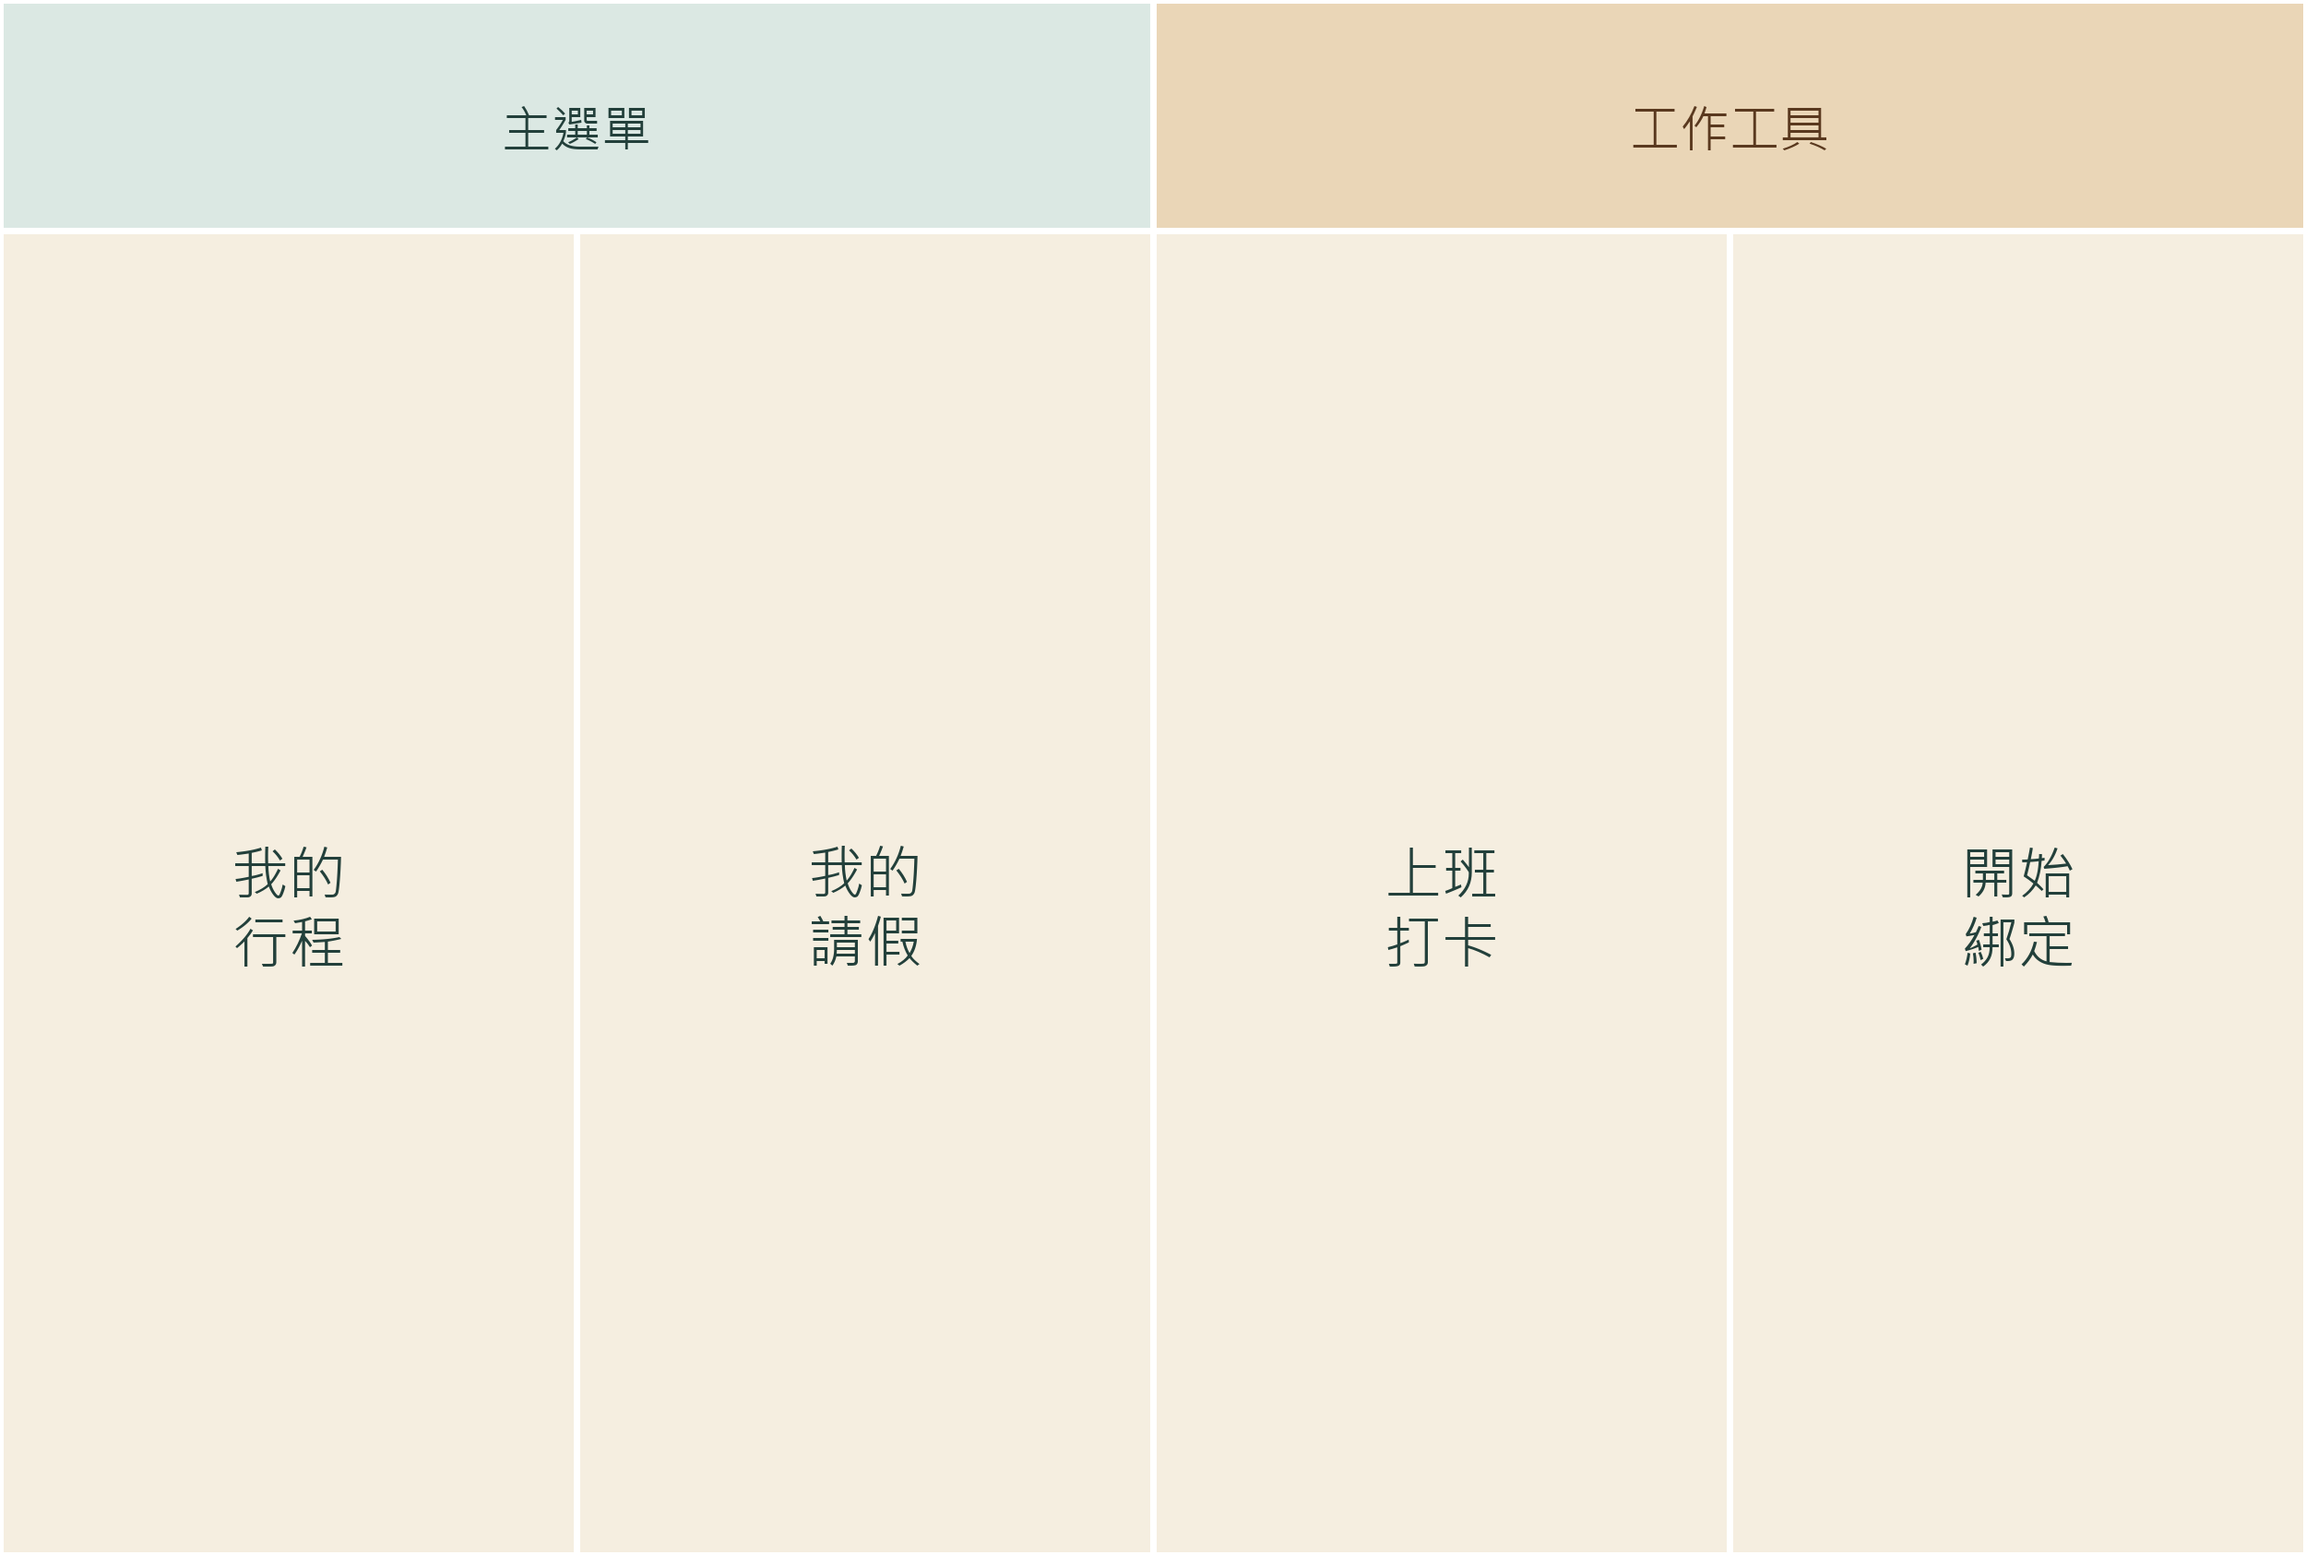
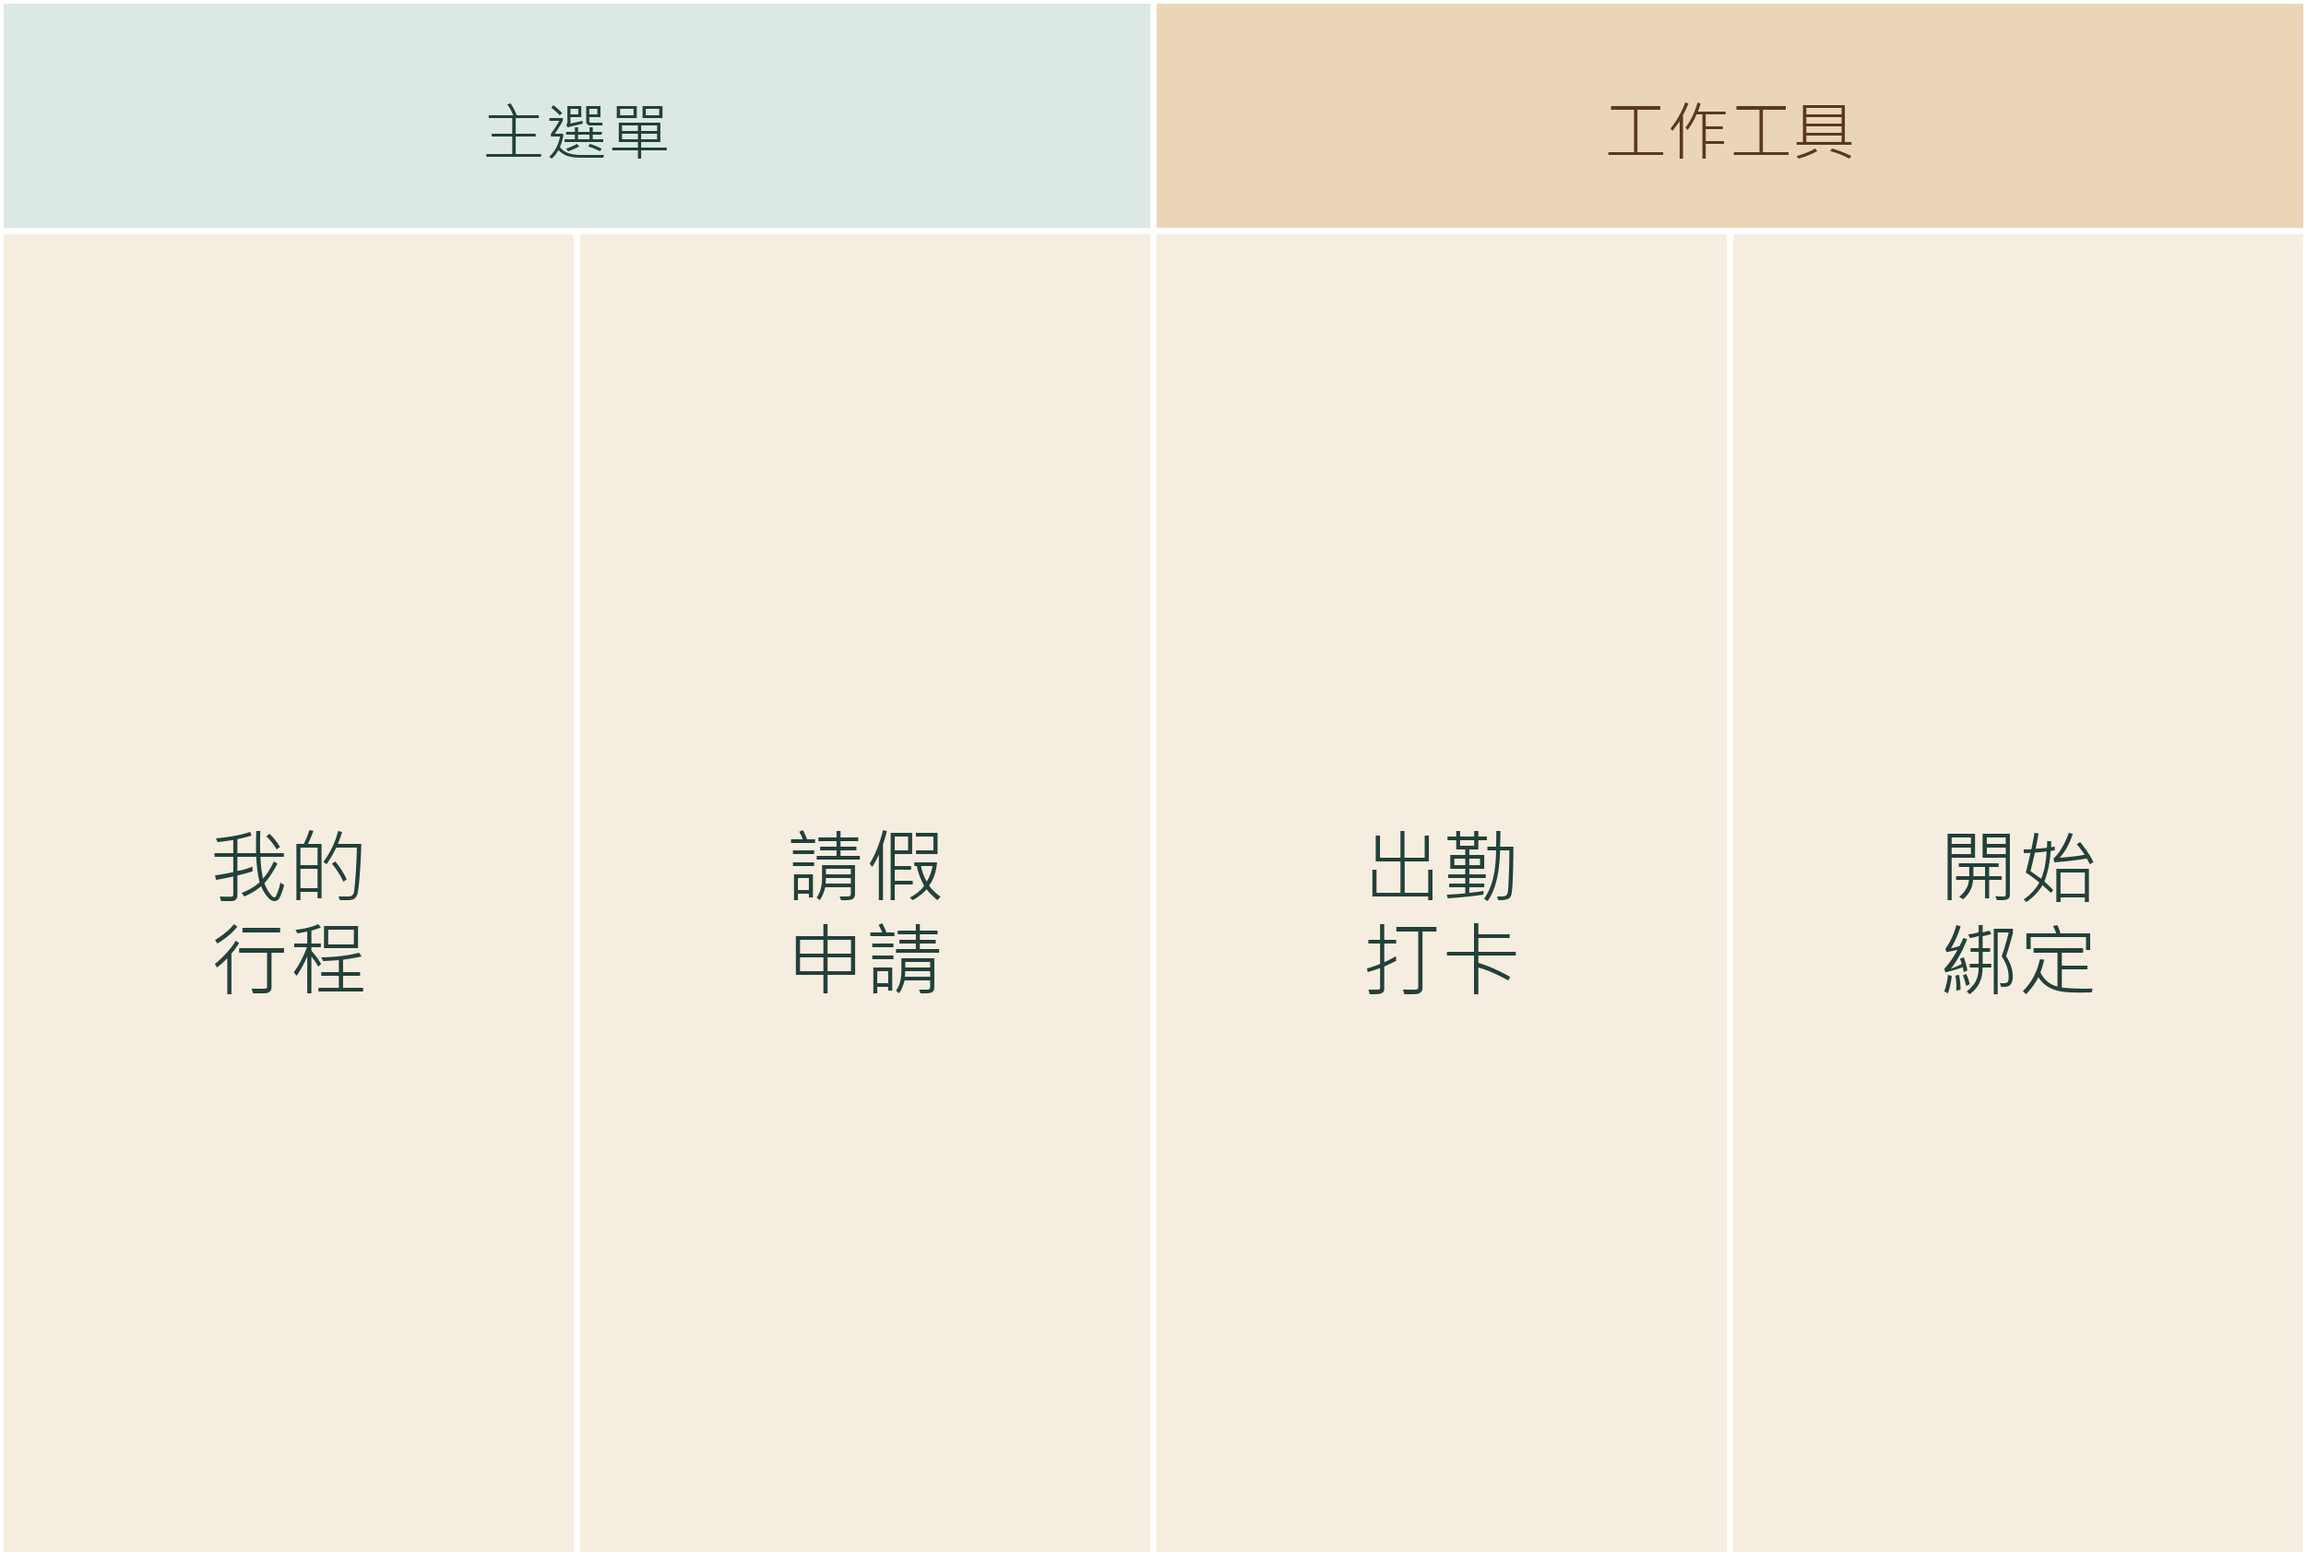
Improve LINE attendance and leave menus

diff --git a/backend/app/services/line.py b/backend/app/services/line.py
@@ -16,6 +16,7 @@ from app.models import (
     AssignmentMember,
     DeliveryStatus,
     Employee,
+    LeaveType,
     LeaveRequest,
     LeaveStatus,
     NotificationBatch,
@@ -84,6 +85,78 @@ class LineService:
 
 
 line_service = LineService()
+
+
+def _quick_reply(items: list[tuple[str, str]]) -> dict[str, Any]:
+    return {
+        "items": [
+            {
+                "type": "action",
+                "action": {
+                    "type": "message",
+                    "label": label,
+                    "text": text,
+                },
+            }
+            for label, text in items
+        ]
+    }
+
+
+async def _reply_attendance_options(reply_token: str) -> None:
+    await line_service.reply_messages(
+        reply_token,
+        [
+            {
+                "type": "text",
+                "text": "請選擇出勤打卡項目：",
+                "quickReply": _quick_reply(
+                    [
+                        ("上班打卡", "上班打卡"),
+                        ("下班打卡", "下班打卡"),
+                    ]
+                ),
+            }
+        ],
+    )
+
+
+async def _reply_leave_options(reply_token: str) -> None:
+    await line_service.reply_messages(
+        reply_token,
+        [
+            {
+                "type": "text",
+                "text": "請選擇請假別：",
+                "quickReply": _quick_reply(
+                    [(leave_type.value, f"請假 {leave_type.value}") for leave_type in LeaveType]
+                ),
+            }
+        ],
+    )
+
+
+def _is_group_command(text: str) -> bool:
+    """Keep normal group conversation silent while preserving explicit bot actions."""
+    exact_commands = {
+        "開始綁定",
+        "我的行程",
+        "我的打卡",
+        "我的請假",
+        "上班打卡",
+        "下班打卡",
+        "到達工地",
+        "離開工地",
+        "外出",
+        "返回",
+        "加班開始",
+        "加班結束",
+        "已收到",
+        "已到場",
+        "工作開始",
+        "工作完成",
+    }
+    return text in exact_commands or text.startswith(("綁定 ", "請假 ", "異常回報 "))
 
 
 def _build_schedule_summary(
@@ -392,7 +465,9 @@ async def _handle_image_message(
 async def process_webhook_event(session: Session, event: dict[str, Any]) -> None:
     event_type = event.get("type")
     reply_token = event.get("replyToken", "")
-    line_user_id = event.get("source", {}).get("userId")
+    source = event.get("source", {})
+    line_user_id = source.get("userId")
+    source_type = source.get("type")
 
     if event_type == "follow" and reply_token:
         await line_service.reply_text(
@@ -428,6 +503,12 @@ async def process_webhook_event(session: Session, event: dict[str, Any]) -> None
         if data.startswith("action=bind:start"):
             await _reply_account_link_prompt(session, reply_token, line_user_id, _binding_base_url(data))
             return
+        if data == "action=attendance:menu":
+            await _reply_attendance_options(reply_token)
+            return
+        if data == "action=leave:menu":
+            await _reply_leave_options(reply_token)
+            return
         await line_service.reply_text(reply_token, "已收到選單操作。")
         return
 
@@ -452,6 +533,9 @@ async def process_webhook_event(session: Session, event: dict[str, Any]) -> None
         return
 
     text = str(message.get("text", "")).strip()
+
+    if source_type in {"group", "room"} and not _is_group_command(text):
+        return
 
     if text == "開始綁定":
         await _reply_account_link_prompt(session, reply_token, line_user_id, settings.public_base_url)
@@ -509,6 +593,12 @@ async def process_webhook_event(session: Session, event: dict[str, Any]) -> None
 
     if text.startswith("請假 "):
         parts = text.split(" ", 4)
+        if len(parts) == 2 and parts[1] in {leave_type.value for leave_type in LeaveType}:
+            await line_service.reply_text(
+                reply_token,
+                f"已選擇：{parts[1]}\n請輸入日期與原因：\n請假 {parts[1]} 2026-07-28 2026-07-28 家中有事",
+            )
+            return
         if len(parts) < 5:
             await line_service.reply_text(reply_token, "格式錯誤，請使用：請假 事假 2026-07-28 2026-07-28 家中有事")
             return

diff --git a/backend/app/services/line_platform.py b/backend/app/services/line_platform.py
@@ -208,12 +208,18 @@ def _draw_centered_text(draw: ImageDraw.ImageDraw, box: tuple[int, int, int, int
     draw.multiline_text((x, y), text, font=font, fill=fill, spacing=8, align="center")
 
 
-def generate_default_rich_menu_images() -> dict[str, Path]:
+def generate_default_rich_menu_images(
+    *,
+    force_regenerate: bool = False,
+    output_dir: Path | None = None,
+) -> dict[str, Path]:
+    output_dir = output_dir or RICH_MENU_DIR
+    output_dir.mkdir(parents=True, exist_ok=True)
     bundled_outputs = {
         "main": STATIC_RICH_MENU_DIR / "santong-main.png",
         "tools": STATIC_RICH_MENU_DIR / "santong-tools.png",
     }
-    if all(path.exists() for path in bundled_outputs.values()):
+    if not force_regenerate and all(path.exists() for path in bundled_outputs.values()):
         for name, bundled_path in bundled_outputs.items():
             target_path = RICH_MENU_DIR / bundled_path.name
             if not target_path.exists():
@@ -224,9 +230,9 @@ def generate_default_rich_menu_images() -> dict[str, Path]:
     tab_height = 250
     column_width = width // 4
 
-    font_title = _load_font(84)
-    font_tab = _load_font(54)
-    font_body = _load_font(62)
+    font_title = _load_font(96)
+    font_tab = _load_font(68)
+    font_body = _load_font(86)
 
     definitions = [
         (
@@ -237,8 +243,8 @@ def generate_default_rich_menu_images() -> dict[str, Path]:
                 ((0, 0, width // 2, tab_height), "主選單"),
                 ((width // 2, 0, width, tab_height), "工作工具"),
                 ((0, tab_height, column_width, height), "我的\n行程"),
-                ((column_width, tab_height, column_width * 2, height), "我的\n請假"),
-                ((column_width * 2, tab_height, column_width * 3, height), "上班\n打卡"),
+                ((column_width, tab_height, column_width * 2, height), "請假\n申請"),
+                ((column_width * 2, tab_height, column_width * 3, height), "出勤\n打卡"),
                 ((column_width * 3, tab_height, width, height), "開始\n綁定"),
             ],
         ),
@@ -271,7 +277,7 @@ def generate_default_rich_menu_images() -> dict[str, Path]:
             fill = "#23403b" if fill_color != "#ead6b7" else "#5a391f"
             _draw_centered_text(draw, box, label, font, fill)
 
-        image_path = RICH_MENU_DIR / f"santong-{name}.png"
+        image_path = output_dir / f"santong-{name}.png"
         image.save(image_path, format="PNG")
         outputs[name] = image_path
     return outputs
@@ -299,11 +305,11 @@ def build_default_rich_menu_payloads(base_url: str) -> dict[str, dict[str, Any]]
                 },
                 {
                     "bounds": {"x": 625, "y": 250, "width": 625, "height": 1436},
-                    "action": {"type": "message", "label": "我的請假", "text": "我的請假"},
+                    "action": {"type": "postback", "label": "請假申請", "data": "action=leave:menu", "displayText": "請假申請"},
                 },
                 {
                     "bounds": {"x": 1250, "y": 250, "width": 625, "height": 1436},
-                    "action": {"type": "message", "label": "上班打卡", "text": "上班打卡"},
+                    "action": {"type": "postback", "label": "出勤打卡", "data": "action=attendance:menu", "displayText": "出勤打卡"},
                 },
                 {
                     "bounds": {"x": 1875, "y": 250, "width": 625, "height": 1436},
